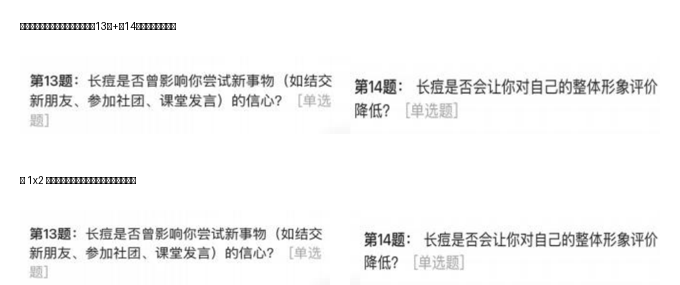
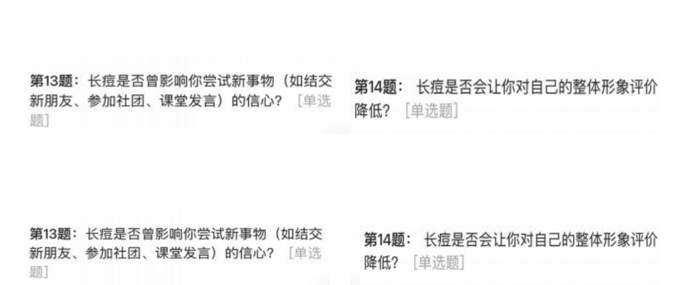
1.12.0: 修复README表格渲染bug、详细对照表改大白话、新增一键安装提示词
- 修复"覆盖26个场景"区块HTML表格中间列渲染成乱文字的bug(GitHub实测)
- 详细对照表说明列全文改写成大白话，跟顶部列表用词保持一致
- 修复side-by-side-composite.png示例图里叠加文字的字体乱码(tofu)
- README顶部新增可复制给Agent的一键安装提示词，用git clone/pull保证后续能跟上仓库迭代

Changed region(s): [[0.0309, 0.0561, 0.2779, 0.1123], [0.0309, 0.6175, 0.2162, 0.6456]]

diff --git a/CHANGELOG.md b/CHANGELOG.md
@@ -2,6 +2,16 @@
 
 版本号遵循 [Semantic Versioning](https://semver.org/lang/zh-CN/)：破坏性改动升主版本号，新场景/新能力升次版本号，bug 修复和文案补充升修订号。
 
+## [1.12.0] — 260923
+
+### Added
+- **新增「一键安装」提示词**：README 最上方新增一段可直接复制给 Agent 的安装指令，用 `git clone`/`git pull` 而不是静态复制文件内容——因为这个仓库会持续迭代，用 git 装的话以后只要用前 `pull` 一下就能拿到最新版本，不会停留在安装那一刻的旧快照上。
+
+### Fixed
+- **修复「覆盖 26 个场景」区块的表格渲染 bug**：原先用 HTML `<table>` 三列各放一份编号列表，GitHub 实测中间一列（12 条图表类场景）会渲染成一整段无法换行的乱文字，另外两列正常——改成三个 `###` 小标题 + 普通 Markdown 列表，规避这类 HTML 表格里嵌列表的渲染不稳定问题。用户在飞书自聊天截图里发现了这个问题。
+- **详细对照表（26 条场景的表格版）全文改写成大白话**：原表格「说明」列写的是内部黑话（如"cmap 映射错位""行归属丢失导致内容消失""复合网格图（一图多子图）"），普通读者看不懂在说什么。现在跟最上方的大白话列表用词保持一致——用户明确反馈"上面的黑话改了，下面的黑话要同步更新"，两处措辞不能各说各话。
+- **修复 `img/side-by-side-composite.png` 示例图里的乱码文字**：这张图是早前生成时往截图上叠加中文说明文字，用的字体不支持中文导致两行说明文字整个变成方块乱码（tofu）。改成图片本身不再叠加文字说明，改用图片下方的 Markdown `<sub>` 文字说明，从根上避免同类字体缺字问题再次出现。
+
 ## [1.11.2] — 260925
 
 ### Changed

diff --git a/SKILL.md b/SKILL.md
@@ -1,7 +1,7 @@
 ---
 name: student-paper-columns
 description: 把学生提交的论文/项目报告/竞赛作品 PDF（多栏、表格、中英文皆有，版式往往比标准学术期刊更杂）抽取成可读正文。触发词「学生论文」「多栏 PDF」「论文解析」「答卷/作品 PDF 提取」，或用户甩来一批学生提交的 PDF 要求整理/校对/判断格式还原效果。fork 自 lecture-notes skill 的课前阅读材料管线（同一套 pdf-extract-columns.py + text-normalize.py 起点），但学生作品的版式比期刊论文杂得多——英文文档、PPT 导出的封面/表单页、装饰字体标题、信息图/海报页、不缩进靠空行或短行收尾分段的写作习惯都很常见，所以单独维护一份带针对性修复的脚本，不跟讲义场景混用。260922-24 用 Bloom NEC/HOSA 学生作品（12 份高中生课程项目报告 + 9 份 NEC 竞赛论文真实答卷）实测并分批验证过全部修复，含一次「代码改了但没生效」的真实踩坑（忘记 rstrip 导致判据恒不触发）。260924 补了图表/插图抠图+OCR+视觉描述的逐页 Markdown 产出格式（§6），能把图表里的文字和图表本身的走势/趋势描述都写进最终交付物，不再是图片抠出来就没了下文。
-version: 1.11.2
+version: 1.12.0
 ---
 
 # 学生论文/多栏 PDF 抽取
